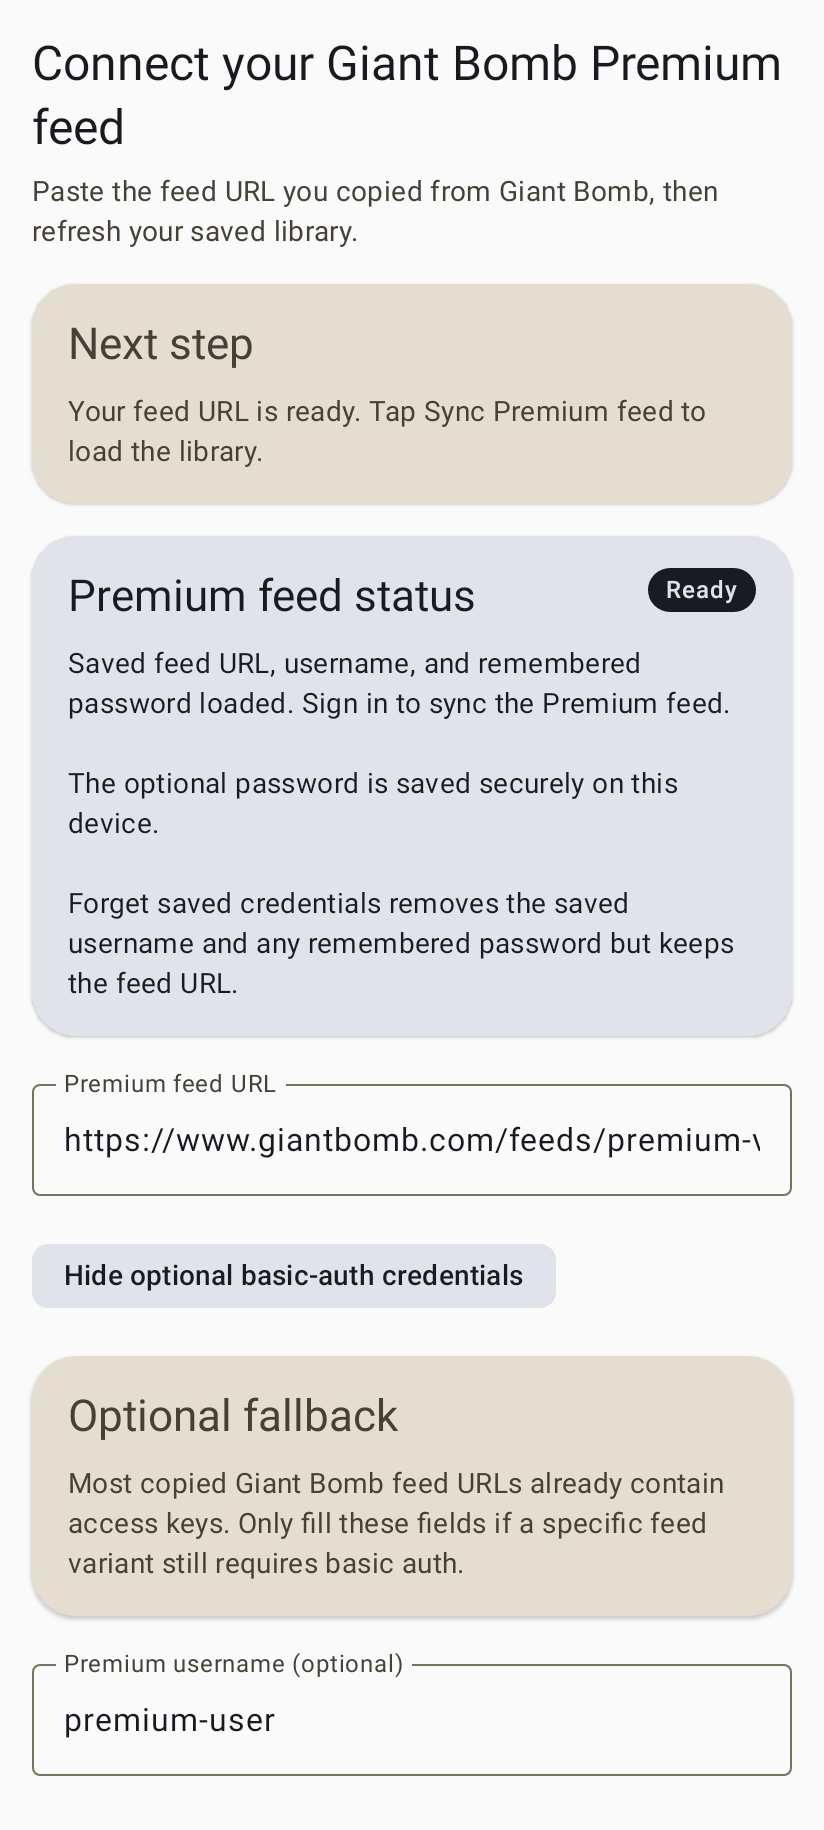
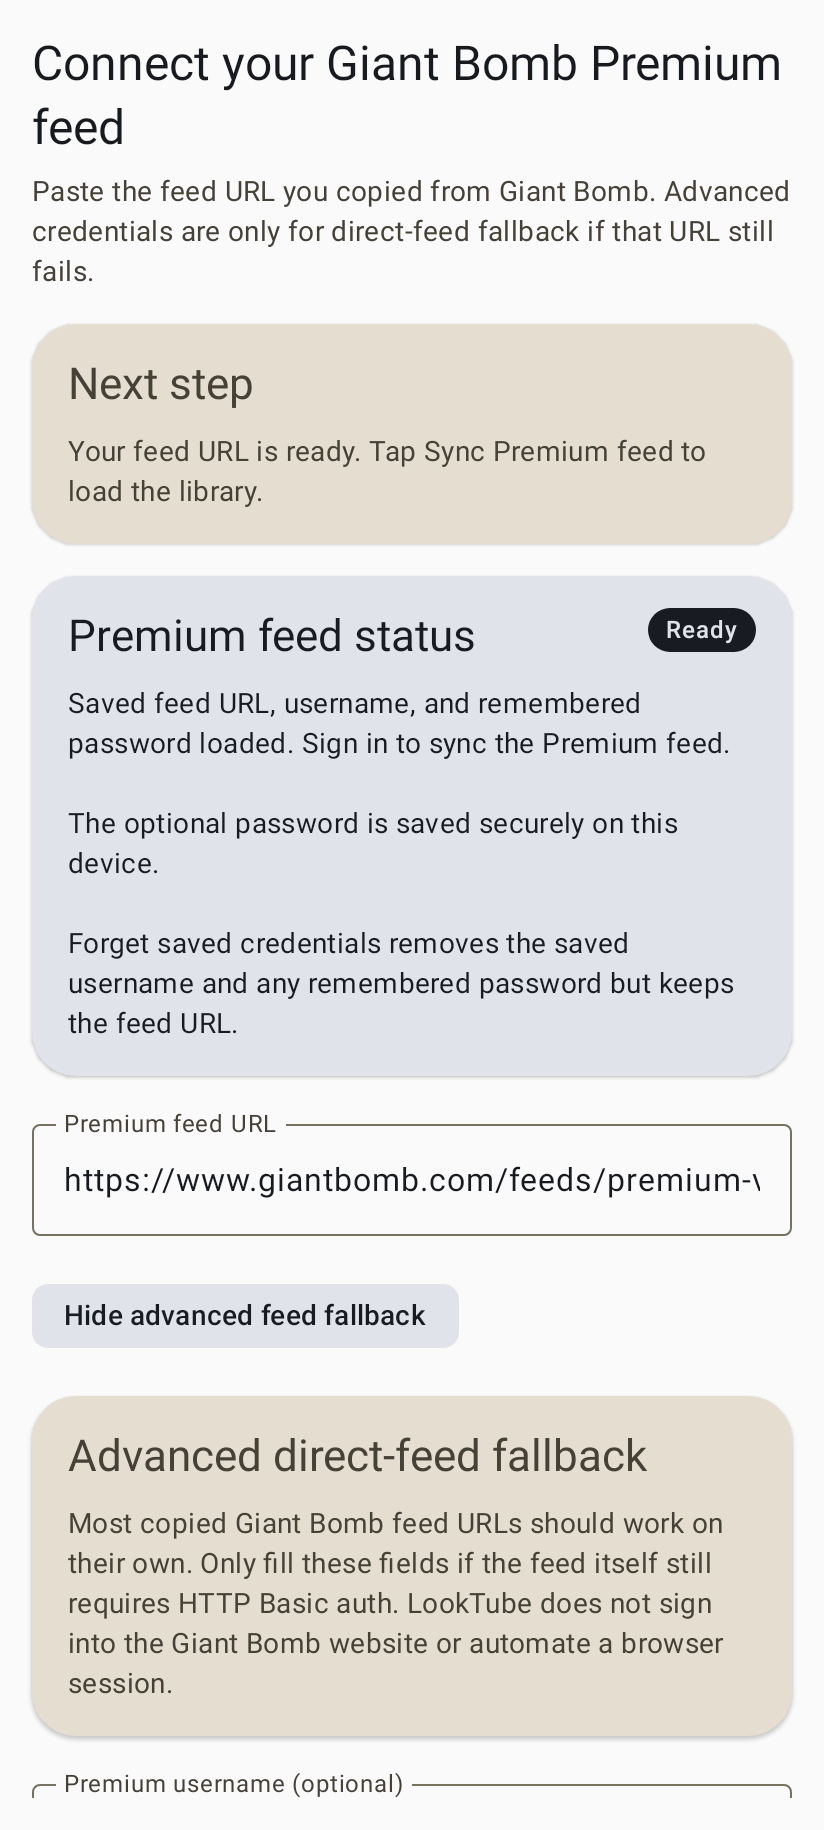
Simplify auth around feed-first access

Changed region(s): [[0.0303, 0.0934, 0.9709, 0.9967]]

diff --git a/core/data/src/main/kotlin/com/looktube/data/ConfigurableLookTubeRepository.kt b/core/data/src/main/kotlin/com/looktube/data/ConfigurableLookTubeRepository.kt
@@ -34,7 +34,7 @@ class ConfigurableLookTubeRepository(
             isSignedIn = false,
             accountLabel = null,
             authMode = null,
-            notes = "Paste a Giant Bomb Premium RSS URL to replace the seeded library. Username and password are optional fallback fields.",
+            notes = "Paste a Giant Bomb Premium RSS URL to replace the seeded library. Username and password are advanced fallback fields only if the feed itself still requires basic auth.",
         ),
     )
     private val feedConfigurationState = MutableStateFlow(
@@ -105,12 +105,6 @@ class ConfigurableLookTubeRepository(
         } else {
             initialStatusFor(configuration)
         }
-
-    override suspend fun selectAuthMode(mode: AuthMode) {
-        feedConfigurationStore.setAuthMode(mode)
-        feedConfigurationState.value = feedConfigurationState.value.copy(authMode = mode)
-        publishStatus(statusAfterConfigurationChange(feedConfigurationState.value))
-    }
 
     override suspend fun updateFeedUrl(feedUrl: String) {
         feedConfigurationStore.setFeedUrl(feedUrl)
@@ -192,16 +186,6 @@ class ConfigurableLookTubeRepository(
                     LibrarySyncState(
                         phase = SyncPhase.Error,
                         message = "Sign in to Giant Bomb Premium before syncing the library.",
-                        lastSuccessfulSyncSummary = syncState.value.lastSuccessfulSyncSummary,
-                    ),
-                )
-                return
-            }
-            configuration.authMode == AuthMode.SessionCookie -> {
-                publishStatus(
-                    LibrarySyncState(
-                        phase = SyncPhase.Error,
-                        message = "Session-cookie mode is planned but not implemented yet. Use credentialed feed mode for this spike.",
                         lastSuccessfulSyncSummary = syncState.value.lastSuccessfulSyncSummary,
                     ),
                 )
@@ -307,11 +291,6 @@ class ConfigurableLookTubeRepository(
 
     private fun initialStatusFor(configuration: FeedConfiguration): LibrarySyncState =
         when {
-            configuration.authMode == AuthMode.SessionCookie -> LibrarySyncState(
-                phase = SyncPhase.Idle,
-                message = "Session-cookie mode is planned but not implemented yet. Credentialed feed mode is the active sync path.",
-                lastSuccessfulSyncSummary = syncState.value.lastSuccessfulSyncSummary,
-            )
             configuration.feedUrl.isBlank() -> LibrarySyncState(
                 phase = SyncPhase.Idle,
                 message = "Paste a Giant Bomb Premium RSS URL copied from the feeds page to replace the seeded library.",
@@ -319,17 +298,17 @@ class ConfigurableLookTubeRepository(
             )
             configuration.username.isBlank() && configuration.password.isBlank() -> LibrarySyncState(
                 phase = SyncPhase.Idle,
-                message = "Saved feed URL detected. Sign in to sync it. Username and password are optional for copied feed URLs that already include access keys.",
+                message = "Saved feed URL detected. Sign in to sync it. Leave advanced fallback credentials empty unless this feed still requires basic auth.",
                 lastSuccessfulSyncSummary = syncState.value.lastSuccessfulSyncSummary,
             )
             configuration.rememberPassword && configuration.password.isNotBlank() -> LibrarySyncState(
                 phase = SyncPhase.Idle,
-                message = "Saved feed URL, username, and remembered password loaded. Sign in to sync the Premium feed.",
+                message = "Saved feed URL and remembered fallback credentials loaded. Sign in to sync the Premium feed.",
                 lastSuccessfulSyncSummary = syncState.value.lastSuccessfulSyncSummary,
             )
             configuration.password.isBlank() -> LibrarySyncState(
                 phase = SyncPhase.Idle,
-                message = "Saved feed URL and username loaded. If this feed still requires basic auth, enter the password for this app session or remember it securely on this device; otherwise sign in now.",
+                message = "Saved feed URL and fallback username loaded. If this feed still requires basic auth, enter the password for this app session or remember it securely on this device; otherwise sign in now.",
                 lastSuccessfulSyncSummary = syncState.value.lastSuccessfulSyncSummary,
             )
             else -> LibrarySyncState(

diff --git a/core/data/src/test/kotlin/com/looktube/data/ConfigurableLookTubeRepositoryTest.kt b/core/data/src/test/kotlin/com/looktube/data/ConfigurableLookTubeRepositoryTest.kt
@@ -57,9 +57,8 @@ class ConfigurableLookTubeRepositoryTest {
         )
 
         repository.bootstrap()
-        repository.selectAuthMode(AuthMode.CredentialedFeed)
         repository.updateFeedUrl("https://example.com/premium.xml")
-        repository.refreshLibrary()
+        repository.signInToPremiumFeed()
 
         assertEquals(SyncPhase.Success, repository.librarySyncState.value.phase)
         assertEquals(1, repository.videos.value.size)
@@ -79,35 +78,17 @@ class ConfigurableLookTubeRepositoryTest {
         )
 
         repository.bootstrap()
-        repository.selectAuthMode(AuthMode.CredentialedFeed)
         repository.updateFeedUrl("https://example.com/premium.xml")
         repository.updateUsername("jorge")
         repository.setRememberPassword(true)
         repository.updatePassword("session-secret")
-        repository.refreshLibrary()
+        repository.signInToPremiumFeed()
 
         assertEquals("https://example.com/premium.xml", recordingService.lastRequest?.feedUrl)
         assertEquals("jorge", recordingService.lastRequest?.username)
         assertEquals("session-secret", recordingService.lastRequest?.password)
         assertEquals("session-secret", store.persistedConfiguration.value.rememberedPassword)
         assertTrue(store.persistedConfiguration.value.rememberPassword)
-    }
-
-    @Test
-    fun refreshSurfacesUnsupportedSessionCookieMode() = runTest {
-        val repository = ConfigurableLookTubeRepository(
-            feedConfigurationStore = FakeFeedConfigurationStore(),
-            syncedLibraryStore = FakeSyncedLibraryStore(),
-            playbackBookmarkStore = InMemoryPlaybackBookmarkStore(),
-            videoFeedService = FakeVideoFeedService(),
-        )
-
-        repository.bootstrap()
-        repository.selectAuthMode(AuthMode.SessionCookie)
-        repository.refreshLibrary()
-
-        assertEquals(SyncPhase.Error, repository.librarySyncState.value.phase)
-        assertTrue(repository.librarySyncState.value.message.contains("not implemented"))
     }
 
     @Test
@@ -121,12 +102,11 @@ class ConfigurableLookTubeRepositoryTest {
         )
 
         repository.bootstrap()
-        repository.selectAuthMode(AuthMode.CredentialedFeed)
         repository.updateFeedUrl("https://example.com/premium.xml")
         repository.updateUsername("jorge")
         repository.setRememberPassword(true)
         repository.updatePassword("remembered-secret")
-        repository.refreshLibrary()
+        repository.signInToPremiumFeed()
         repository.clearSyncedData()
 
         assertFalse(repository.accountSession.value.isSignedIn)
@@ -148,7 +128,6 @@ class ConfigurableLookTubeRepositoryTest {
         )
 
         repository.bootstrap()
-        repository.selectAuthMode(AuthMode.CredentialedFeed)
         repository.updateFeedUrl("https://example.com/premium.xml")
         repository.updateUsername("jorge")
         repository.setRememberPassword(true)

diff --git a/feature/auth/src/main/java/com/looktube/feature/auth/AuthRoute.kt b/feature/auth/src/main/java/com/looktube/feature/auth/AuthRoute.kt
@@ -135,7 +135,7 @@ fun AuthRoute(
     ) {
         LookTubePageHeader(
             title = "Connect your Giant Bomb Premium feed",
-            subtitle = "Paste the feed URL you copied from Giant Bomb, then refresh your saved library.",
+            subtitle = "Paste the feed URL you copied from Giant Bomb. Advanced credentials are only for direct-feed fallback if that URL still fails.",
         )
 
         LookTubeCard(
@@ -167,9 +167,9 @@ fun AuthRoute(
             label = {
                 Text(
                     if (optionalCredentialsExpanded) {
-                        "Hide optional basic-auth credentials"
+                        "Hide advanced feed fallback"
                     } else {
-                        "Optional basic-auth credentials"
+                        "Advanced feed fallback"
                     },
                 )
             },
@@ -177,8 +177,8 @@ fun AuthRoute(
 
         if (optionalCredentialsExpanded) {
             LookTubeCard(
-                title = "Optional fallback",
-                body = "Most copied Giant Bomb feed URLs already contain access keys. Only fill these fields if a specific feed variant still requires basic auth.",
+                title = "Advanced direct-feed fallback",
+                body = "Most copied Giant Bomb feed URLs should work on their own. Only fill these fields if the feed itself still requires HTTP Basic auth. LookTube does not sign into the Giant Bomb website or automate a browser session.",
             )
 
             OutlinedTextField(
@@ -225,7 +225,7 @@ fun AuthRoute(
                 Column(verticalArrangement = Arrangement.spacedBy(2.dp)) {
                     Text("Remember password on this device")
                     Text(
-                        text = "Uses encrypted-at-rest app storage and stays optional for feed URLs with embedded access keys.",
+                        text = "Uses encrypted-at-rest app storage and stays limited to the direct-feed fallback path.",
                         style = MaterialTheme.typography.bodySmall,
                         color = MaterialTheme.colorScheme.onSurfaceVariant,
                     )

diff --git a/core/data/src/main/kotlin/com/looktube/data/InMemoryLookTubeRepository.kt b/core/data/src/main/kotlin/com/looktube/data/InMemoryLookTubeRepository.kt
@@ -58,18 +58,6 @@ class InMemoryLookTubeRepository : LookTubeRepository {
         playbackProgressState.value = emptyMap()
     }
 
-
-    override suspend fun selectAuthMode(mode: AuthMode) {
-        feedConfigurationState.value = feedConfigurationState.value.copy(authMode = mode)
-        accountSessionState.value = accountSessionState.value.copy(
-            authMode = mode,
-            notes = when (mode) {
-                AuthMode.SessionCookie -> "Spike session-cookie sign-in via a browser-backed flow and persist only the minimum session state."
-                AuthMode.CredentialedFeed -> "Spike credentialed feed access first to confirm Premium video RSS reliability."
-            },
-        )
-    }
-
     override suspend fun updateFeedUrl(feedUrl: String) {
         feedConfigurationState.value = feedConfigurationState.value.copy(feedUrl = feedUrl)
     }
@@ -89,7 +77,7 @@ class InMemoryLookTubeRepository : LookTubeRepository {
             feedConfigurationState.value = feedConfigurationState.value.copy(authMode = AuthMode.CredentialedFeed)
             accountSessionState.value = accountSessionState.value.copy(
                 authMode = AuthMode.CredentialedFeed,
-                notes = "Spike credentialed feed access first to confirm Premium video RSS reliability.",
+                notes = "Spike feed-first Premium access first and use credentials only as direct-feed fallback.",
             )
         }
         refreshLibrary()

diff --git a/core/data/src/test/kotlin/com/looktube/data/InMemoryLookTubeRepositoryTest.kt b/core/data/src/test/kotlin/com/looktube/data/InMemoryLookTubeRepositoryTest.kt
@@ -1,6 +1,5 @@
 package com.looktube.data
 
-import com.looktube.model.AuthMode
 import com.looktube.model.SyncPhase
 import kotlinx.coroutines.test.runTest
 import org.junit.Assert.assertEquals
@@ -19,12 +18,12 @@ class InMemoryLookTubeRepositoryTest {
     }
 
     @Test
-    fun selectingAuthModePersistsChoice() = runTest {
+    fun signInMarksRepositoryAsCredentialedFeed() = runTest {
         val repository = InMemoryLookTubeRepository()
 
-        repository.selectAuthMode(AuthMode.SessionCookie)
+        repository.signInToPremiumFeed()
 
-        assertEquals(AuthMode.SessionCookie, repository.accountSession.value.authMode)
+        assertEquals(com.looktube.model.AuthMode.CredentialedFeed, repository.accountSession.value.authMode)
     }
 
     @Test

diff --git a/app/src/main/java/com/looktube/app/LookTubeAppViewModel.kt b/app/src/main/java/com/looktube/app/LookTubeAppViewModel.kt
@@ -4,7 +4,6 @@ import androidx.lifecycle.ViewModel
 import androidx.lifecycle.ViewModelProvider
 import androidx.lifecycle.viewModelScope
 import com.looktube.data.LookTubeRepository
-import com.looktube.model.AuthMode
 import com.looktube.model.FeedConfiguration
 import com.looktube.model.LibrarySyncState
 import com.looktube.model.PlaybackProgress
@@ -49,12 +48,6 @@ class LookTubeAppViewModel(
     init {
         viewModelScope.launch {
             repository.bootstrap()
-        }
-    }
-
-    fun selectAuthMode(mode: AuthMode) {
-        viewModelScope.launch {
-            repository.selectAuthMode(mode)
         }
     }
 

diff --git a/core/data/src/main/kotlin/com/looktube/data/LookTubeRepository.kt b/core/data/src/main/kotlin/com/looktube/data/LookTubeRepository.kt
@@ -17,7 +17,6 @@ interface LookTubeRepository {
     val playbackProgress: StateFlow<Map<String, PlaybackProgress>>
 
     suspend fun bootstrap()
-    suspend fun selectAuthMode(mode: AuthMode)
 
     suspend fun updateFeedUrl(feedUrl: String)
 

diff --git a/core/model/src/main/kotlin/com/looktube/model/AuthMode.kt b/core/model/src/main/kotlin/com/looktube/model/AuthMode.kt
@@ -1,6 +1,5 @@
 package com.looktube.model
 
 enum class AuthMode {
-    SessionCookie,
     CredentialedFeed,
 }

diff --git a/docs/architecture/overview.md b/docs/architecture/overview.md
@@ -21,7 +21,7 @@ LookTube is built as a native Android app in Kotlin with Jetpack Compose. The re
 - `core:testing`
   - shared fixtures and coroutine-test rules
 - `feature:auth`
-  - auth mode validation surface
+  - feed configuration and fallback-credentials surface
 - `feature:library`
   - consolidated Premium library browse surface with grouped exploration, rich cards, and flyout jump navigation
 - `feature:player`
@@ -39,15 +39,15 @@ LookTube is built as a native Android app in Kotlin with Jetpack Compose. The re
 ## Current data flow
 1. `app` creates a `SharedPreferencesFeedConfigurationStore` plus the configurable repository from the app container
 2. `LookTubeAppViewModel` bootstraps the repository
-3. the repository loads feed identity settings from an app-owned encrypted-at-rest store, restores any opted-in remembered password, keeps non-remembered password edits session-only, restores the last synced library snapshot, and exposes persisted playback progress
+3. the repository loads feed identity settings from an app-owned encrypted-at-rest store, restores any opted-in remembered password, keeps non-remembered password edits session-only, restores the last synced library snapshot, and exposes persisted playback progress for the feed-first path
 4. feature modules render and mutate repository state through the app shell, including a Premium feed access screen, a consolidated grouped library surface, and a shared Media3 player route
-5. an explicit sync action attempts a direct RSS fetch first and replaces the cached library on success, while still passing optional basic-auth credentials when present and allowing cached-library clearing independently from credential forgetting
+5. an explicit sync action attempts a direct RSS fetch first and replaces the cached library on success, while still passing optional basic-auth credentials when present and allowing cached-library clearing independently from credential forgetting; the architecture intentionally stops short of website-login automation
 
 ## Why the current spike still keeps a seeded fallback
 The project still needs a short external integration spike to confirm the best Giant Bomb Premium auth strategy and exact production feed targets. The configurable repository now supports a real Premium feed sync path, but it keeps seeded fallback content so the app remains usable and testable before live credentials are available.
 
 ## Near-term evolution path
-- validate whether remembered feed credentials are sufficient, or whether the repo needs a broader reusable auth/session strategy
+- validate whether copied feed URLs plus narrow direct-feed fallback are sufficient, or whether Giant Bomb eventually exposes an official broader auth/session path
 - continue hardening Media3 playback and real-device resume behavior
 - improve visual regression coverage for the now-richer library/player surfaces
 - keep refining grouping heuristics and browse affordances as more live feed edge cases appear

diff --git a/README.md b/README.md
@@ -4,7 +4,7 @@ LookTube is an Android-first Giant Bomb companion app focused on one primary out
 ## Current status
 The repository is now past the initial foundation spike and includes a usable Android browse/playback slice:
 - native Android app shell in Kotlin + Compose with modular `app`, `core:*`, and `feature:*` boundaries
-- copied Giant Bomb Premium RSS URLs supported as the primary sync path, with optional fallback basic-auth fields
+- copied Giant Bomb Premium RSS URLs supported as the primary sync path, with advanced direct-feed basic-auth fallback only when a feed variant still requires it
 - copied Giant Bomb Premium RSS URLs, saved usernames, and optional remembered passwords now persist encrypted at rest
 - persisted synced-library state and playback resume state across app restarts
 - app-level Media3 playback service/session with background playback and fullscreen support
@@ -12,7 +12,7 @@ The repository is now past the initial foundation spike and includes a usable An
 - committed Roborazzi visual baseline coverage for the Library browse surface plus Auth and Player fallback states, including remembered-credentials readiness
 - fixture-driven parser/repository tests plus managed smoke coverage
 - maintained docs, ADR, and Ralph loop validation commands
-- live Giant Bomb auth/session strategy and exact long-term playback integration still need additional hardening beyond the current feed-first path
+- live Giant Bomb playback integration still needs additional hardening, but the intended product shape remains feed-first rather than website-login automation
 
 ## Ralph loop commands
 Use these commands as the default development loop on Windows:
@@ -56,7 +56,7 @@ Run the managed-device smoke lane when emulator support is ready:
 - `feature:*` - user-facing screens split by concern
 
 ## Near-term implementation focus
-1. validate whether the remembered-password feed path is sufficient for real Giant Bomb playback, or whether a browser-backed reusable session is still required
+1. validate whether the copied feed URL alone is sufficient for real Giant Bomb playback, and keep credentials only if direct-feed fallback proves necessary
 2. continue improving browse ergonomics, visual polish, and show-grouping quality from live device feedback
 3. keep expanding screenshot-oriented visual regression coverage around richer playback states and any new auth edge cases
-4. tighten any remaining Giant Bomb-specific playback or session edge cases found during device validation
+4. tighten any remaining Giant Bomb-specific playback edge cases found during device validation without drifting into unsupported site automation

diff --git a/docs/spec/product-spec.md b/docs/spec/product-spec.md
@@ -22,6 +22,7 @@ The current app already covers a substantial first-use slice for a Premium subsc
 - Library combines grouped browsing, sort/filter controls, rich video cards, and jump navigation
 - Player uses a shared Media3 session/service model with fullscreen and resume support
 - the Auth surface now separates clearing synced cache from forgetting saved credentials while preserving the copied feed URL
+- the product remains explicitly feed-first and avoids unsupported website-login automation
 - the main shell is covered by automated smoke validation and regular Ralph loop gates
 
 ## Next slice
@@ -29,6 +30,7 @@ Harden the path from copied feed sync to daily repeat use.
 
 ### Acceptance criteria
 - copied-feed sync remains the primary user-facing path unless a more robust Premium session flow proves necessary
+- credentials stay clearly demoted as advanced direct-feed fallback, not the main sign-in path
 - playback and background/session behavior remain stable across more real Giant Bomb feed variants
 - browse ergonomics continue improving from device feedback without regressing the grouped-library model
 - screenshot-oriented visual regression coverage is added for the now-stable browse/player experience
@@ -46,6 +48,6 @@ Harden the path from copied feed sync to daily repeat use.
 7. run `verifyLocal` before merging the slice
 
 ## Open questions
-- Is a direct credentialed-feed path enough for the first usable release, or does Giant Bomb Premium video require a browser-backed session flow?
+- Is the copied Premium feed URL alone enough for the first usable release, or do some feeds still require direct-feed credential fallback?
 - Which additional Giant Bomb feed or page metadata should be folded into show-grouping heuristics?
 - What is the lightest-weight visual regression strategy that fits the current Android/Compose workflow?

diff --git a/docs/integration/giantbomb.md b/docs/integration/giantbomb.md
@@ -5,10 +5,9 @@
 - Giant Bomb also states that legacy structured APIs for games, people, companies, and related content are not currently available.
 
 ## Design consequence
-The first implementation path should be feed-first, not legacy-API-first. The auth spike must determine whether the most reliable Android companion experience is:
+The first implementation path should stay feed-first, not legacy-API-first. Until Giant Bomb exposes an official supported media/mobile integration path, LookTube should avoid browser-backed sign-in flows, cookie harvesting, or other website automation. The main integration question is narrower:
 - direct copied-feed access
 - direct feed access with optional fallback basic-auth credentials
-- a browser-backed sign-in flow that yields a reusable session
 
 ## What is implemented in the repo today
 - fixture-driven RSS parsing in `core:network`
@@ -25,7 +24,8 @@ The first implementation path should be feed-first, not legacy-API-first. The au
 - confirm whether credentialed feed access is sufficient for real video playback, not just feed access
 - confirm the minimum set of headers, cookies, and redirects required for authenticated playback handoff
 - confirm how often the site behavior changes enough to require fixture refreshes
-- validate whether the new remembered-password path is enough for repeat Giant Bomb playback use, or whether a reusable browser-backed session is still required
+- validate whether copied feed URLs already cover repeat use, or whether some real Premium feeds still need direct-feed basic-auth fallback
+- do not introduce website-login/session automation unless Giant Bomb publishes an official supported path
 
 ## Probe policy
 - live probes are opt-in only
